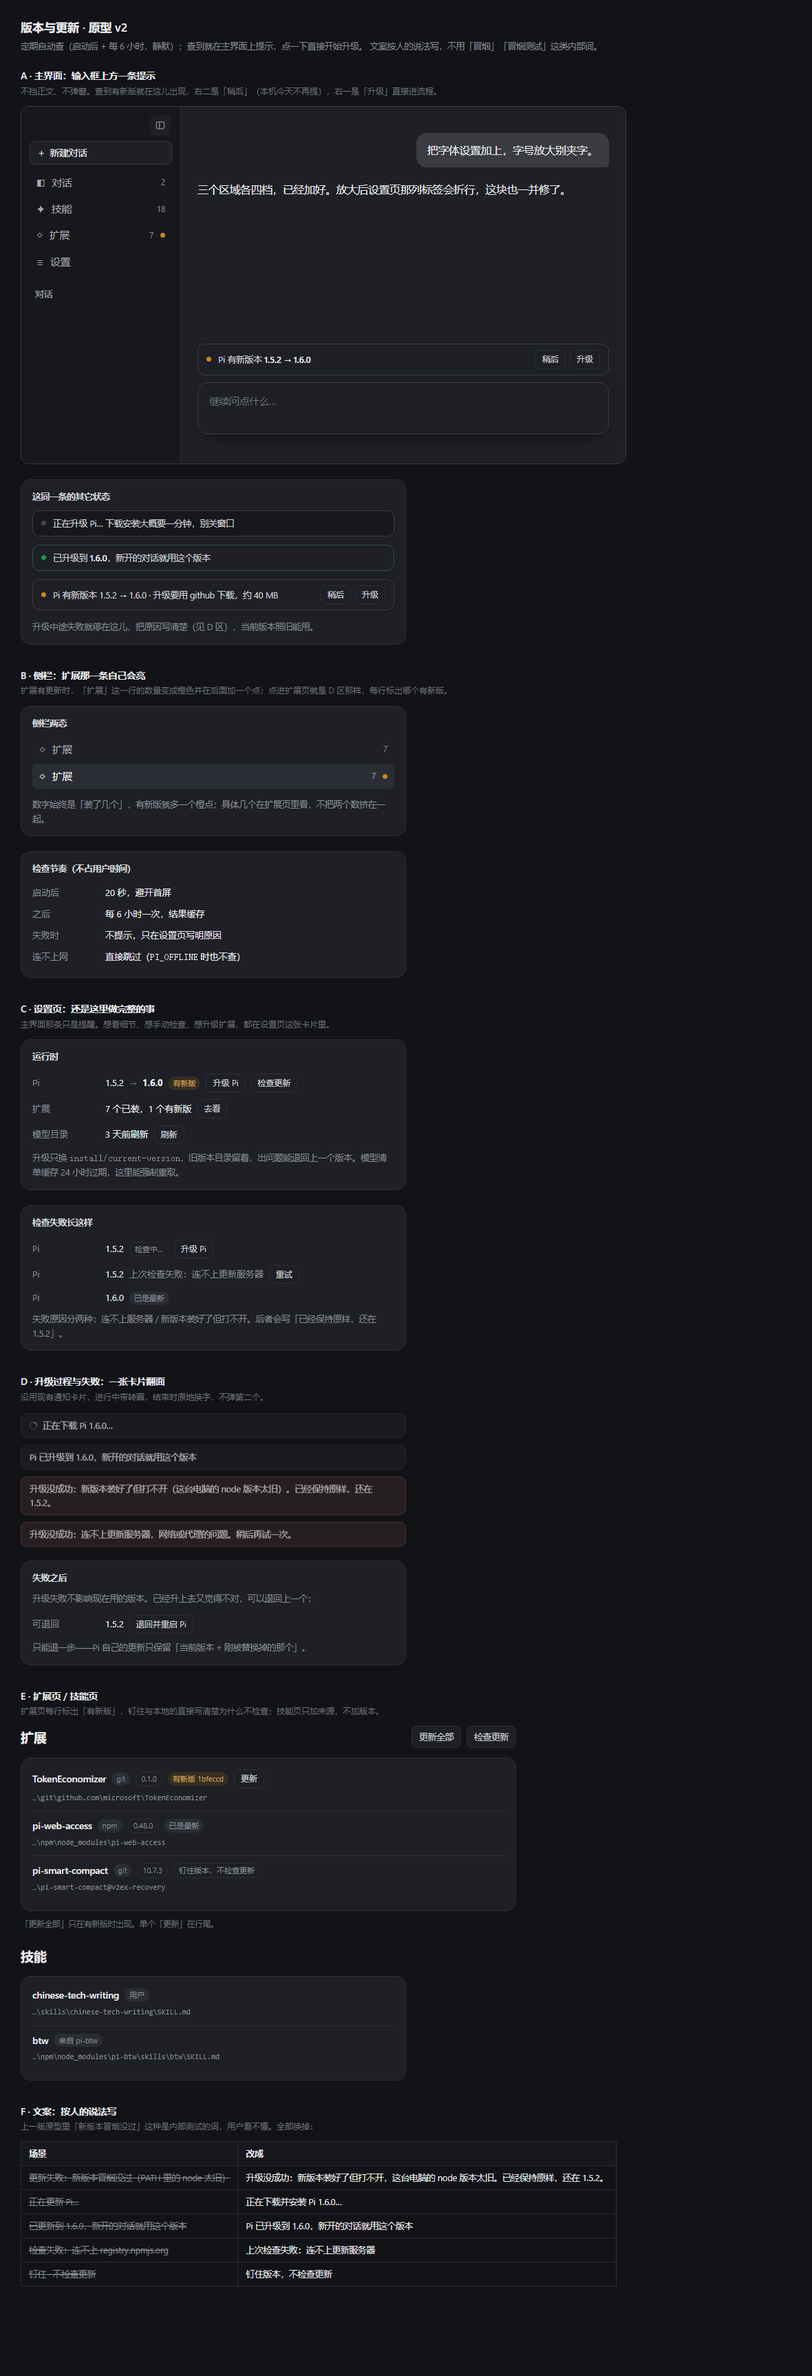
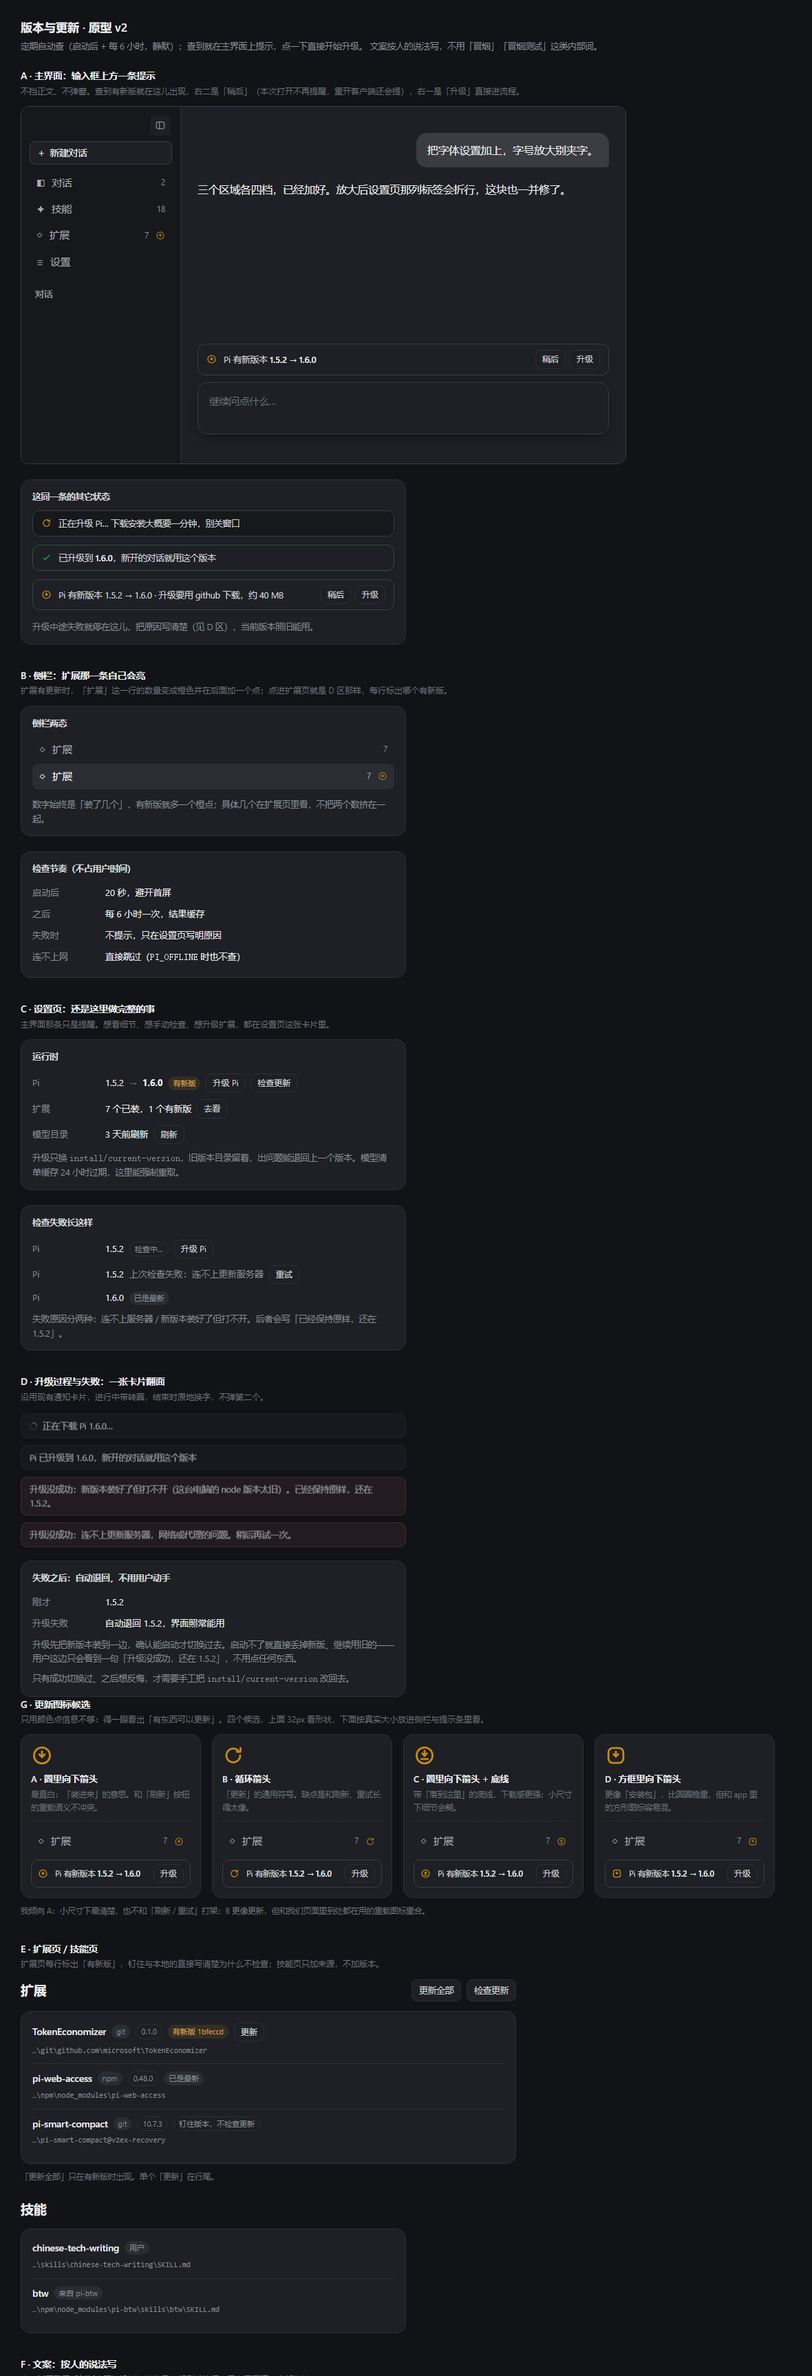
设计：更新图标候选（选圈里向下箭头）+ 失败自动退回 + 稍后只记本次打开

diff --git a/design/updates-proto.html b/design/updates-proto.html
@@ -31,7 +31,8 @@
     border-radius: 10px; box-shadow: 0 2px 8px rgba(16, 16, 20, .04);
     font-size: calc(12.5px * var(--fs-ui)); color: var(--text-dim);
   }
-  .upd-dot { width: 7px; height: 7px; border-radius: 50%; background: #c8891a; flex: 0 0 auto; }
+  .upd-icon { width: 15px; height: 15px; flex: 0 0 auto; color: #c8891a; }
+  .upd-icon svg { display: block; width: 100%; height: 100%; }
   .upd-text { flex: 1; min-width: 0; }
   .upd-text strong { font-weight: 600; color: var(--text); }
   .upd-actions { display: flex; gap: 6px; flex: 0 0 auto; }
@@ -43,7 +44,8 @@
   @keyframes pulse { 0%, 100% { opacity: .35; } 50% { opacity: 1; } }
 
   /* ② 侧栏上的「有更新」提示：数量徽标换成强调色的点 + 行内一行小字。 */
-  .nav-item .nav-update { width: 7px; height: 7px; border-radius: 50%; background: #c8891a; flex: 0 0 auto; }
+  .nav-item .nav-update { width: 14px; height: 14px; flex: 0 0 auto; color: #c8891a; }
+  .nav-item .nav-update svg { display: block; width: 100%; height: 100%; }
   .nav-item .nav-count.is-update { color: #a9711a; }
 
   .page-head { margin-bottom: 14px; align-items: center; }
@@ -56,6 +58,15 @@
   .mini-note { margin: 10px 0 0; font-size: calc(11.5px * var(--fs-ui)); color: var(--text-faint); }
   .proto-toasts { position: static; width: auto; padding: 0; gap: 10px; }
   .proto-toasts .toast { position: static; }
+  .icon-grid { display: flex; gap: 16px; flex-wrap: wrap; }
+  .icon-card { width: 262px; padding: 14px; background: var(--card); border: 1px solid var(--border); border-radius: var(--radius-card); }
+  .icon-big { width: 32px; height: 32px; margin-bottom: 8px; }
+  .icon-big svg { width: 100%; height: 100%; }
+  .icon-name { font-size: calc(13px * var(--fs-ui)); font-weight: 600; }
+  .icon-note { margin: 3px 0 10px; font-size: calc(11.5px * var(--fs-ui)); color: var(--text-faint); min-height: 3em; }
+  .icon-demo { padding-top: 10px; border-top: 1px dashed var(--border); }
+  .icon-demo .upd-strip { font-size: calc(11.5px * var(--fs-ui)); padding: 6px 9px; }
+
   .copy-table { border-collapse: collapse; font-size: calc(12.5px * var(--fs-ui)); }
   .copy-table th, .copy-table td { border: 1px solid var(--border); padding: 7px 11px; text-align: left; vertical-align: top; }
   .copy-table th { background: var(--panel); font-weight: 600; }
@@ -70,7 +81,7 @@
 
 <div class="block">
   <h2>A · 主界面：输入框上方一条提示</h2>
-  <p class="why">不挡正文、不弹窗。查到有新版就在这儿出现，右二是「稍后」（本机今天不再提），右一是「升级」直接进流程。</p>
+  <p class="why">不挡正文、不弹窗。查到有新版就在这儿出现，右二是「稍后」（本次打开不再提醒，重开客户端还会提），右一是「升级」直接进流程。</p>
 
   <div class="stage-row">
     <div class="mini-window">
@@ -83,7 +94,7 @@
           <nav class="nav">
             <button class="nav-item"><span class="nav-icon">◧</span>对话<span class="nav-count">2</span></button>
             <button class="nav-item"><span class="nav-icon">✦</span>技能<span class="nav-count">18</span></button>
-            <button class="nav-item"><span class="nav-icon">◇</span>扩展<span class="nav-count">7</span><span class="nav-update"></span></button>
+            <button class="nav-item"><span class="nav-icon">◇</span>扩展<span class="nav-count">7</span><span class="nav-update"><svg viewBox="0 0 16 16" fill="none" stroke="currentColor" stroke-width="1.4" stroke-linecap="round" stroke-linejoin="round"><circle cx="8" cy="8" r="5.8"/><path d="M8 5.1v4.1"/><path d="M6.1 7.2 8 9.1l1.9-1.9"/></svg></span></button>
             <button class="nav-item"><span class="nav-icon">≡</span>设置</button>
           </nav>
           <div class="threads-head"><span class="threads-title">对话</span></div>
@@ -100,7 +111,7 @@
 
             <div class="composer">
               <div class="upd-strip">
-                <span class="upd-dot"></span>
+                <span class="upd-icon"><svg viewBox="0 0 16 16" fill="none" stroke="currentColor" stroke-width="1.4" stroke-linecap="round" stroke-linejoin="round"><circle cx="8" cy="8" r="5.8"/><path d="M8 5.1v4.1"/><path d="M6.1 7.2 8 9.1l1.9-1.9"/></svg></span>
                 <span class="upd-text">Pi 有新版本 <strong>1.5.2 → 1.6.0</strong></span>
                 <span class="upd-actions">
                   <button class="ghost-btn small">稍后</button>
@@ -123,17 +134,17 @@
         <h3>这同一条的其它状态</h3>
 
         <div class="upd-strip busy" style="margin-bottom:12px">
-          <span class="upd-dot"></span>
+          <span class="upd-icon"><svg viewBox="0 0 16 16" fill="none" stroke="currentColor" stroke-width="1.4" stroke-linecap="round" stroke-linejoin="round"><path d="M13 8a5 5 0 1 1-1.6-3.7"/><path d="M13.2 2.6v2.7h-2.7"/></svg></span>
           <span class="upd-text">正在升级 Pi… 下载安装大概要一分钟，别关窗口</span>
         </div>
 
         <div class="upd-strip done" style="margin-bottom:12px">
-          <span class="upd-dot"></span>
+          <span class="upd-icon" style="color:var(--green)"><svg viewBox="0 0 16 16" fill="none" stroke="currentColor" stroke-width="1.6" stroke-linecap="round" stroke-linejoin="round"><path d="M3.4 8.6 6.2 11.3 12.6 4.6"/></svg></span>
           <span class="upd-text">已升级到 <strong>1.6.0</strong>，新开的对话就用这个版本</span>
         </div>
 
         <div class="upd-strip" style="margin-bottom:12px">
-          <span class="upd-dot"></span>
+          <span class="upd-icon"><svg viewBox="0 0 16 16" fill="none" stroke="currentColor" stroke-width="1.4" stroke-linecap="round" stroke-linejoin="round"><circle cx="8" cy="8" r="5.8"/><path d="M8 5.1v4.1"/><path d="M6.1 7.2 8 9.1l1.9-1.9"/></svg></span>
           <span class="upd-text">Pi 有新版本 1.5.2 → 1.6.0 · 升级要用 github 下载，约 40 MB</span>
           <span class="upd-actions"><button class="ghost-btn small">稍后</button><button class="ghost-btn small">升级</button></span>
         </div>
@@ -153,7 +164,7 @@
         <h3>侧栏两态</h3>
         <nav class="nav" style="display:flex;flex-direction:column;gap:2px">
           <button class="nav-item"><span class="nav-icon">◇</span>扩展<span class="nav-count">7</span></button>
-          <button class="nav-item is-active"><span class="nav-icon">◇</span>扩展<span class="nav-count">7</span><span class="nav-update"></span></button>
+          <button class="nav-item is-active"><span class="nav-icon">◇</span>扩展<span class="nav-count">7</span><span class="nav-update"><svg viewBox="0 0 16 16" fill="none" stroke="currentColor" stroke-width="1.4" stroke-linecap="round" stroke-linejoin="round"><circle cx="8" cy="8" r="5.8"/><path d="M8 5.1v4.1"/><path d="M6.1 7.2 8 9.1l1.9-1.9"/></svg></span></button>
         </nav>
         <p class="page-note" style="margin-top:12px">数字始终是「装了几个」，有新版就多一个橙点；具体几个在扩展页里看，不把两个数挤在一起。</p>
       </div>
@@ -236,16 +247,80 @@
 
     <div class="frame">
       <div class="page-card">
-        <h3>失败之后</h3>
-        <p class="page-note">升级失败不影响现在用的版本。已经升上去又觉得不对，可以退回上一个：</p>
+        <h3>失败之后：自动退回，不用用户动手</h3>
         <div class="kv-row">
-          <span class="kv-key">可退回</span>
-          <span class="kv-value"><span>1.5.2</span><button class="ghost-btn small">退回并重启 Pi</button></span>
+          <span class="kv-key">刚才</span>
+          <span class="kv-value"><span>1.5.2</span></span>
         </div>
-        <p class="page-note">只能退一步——Pi 自己的更新只保留「当前版本 + 刚被替换掉的那个」。</p>
+        <div class="kv-row">
+          <span class="kv-key">升级失败</span>
+          <span class="kv-value"><span>自动退回 1.5.2，界面照常能用</span></span>
+        </div>
+        <p class="page-note">升级先把新版本装到一边，确认能启动才切换过去。启动不了就直接丢掉新版、继续用旧的——
+        用户这边只会看到一句「升级没成功，还在 1.5.2」，不用点任何东西。</p>
+        <p class="page-note">只有成功切换过、之后想反悔，才需要手工把 <code>install/current-version</code> 改回去。</p>
       </div>
     </div>
   </div>
+
+<div class="block">
+  <h2>G · 更新图标候选</h2>
+  <p class="why">只用颜色点信息不够：得一眼看出「有东西可以更新」。四个候选，上面 32px 看形状，下面按真实大小放进侧栏与提示条里看。</p>
+  <div class="icon-grid">
+      <div class="icon-card">
+        <div class="icon-big" style="color:#c8891a"><svg viewBox="0 0 16 16" fill="none" stroke="currentColor" stroke-width="1.4" stroke-linecap="round" stroke-linejoin="round"><circle cx="8" cy="8" r="5.8"/><path d="M8 5.1v4.1"/><path d="M6.1 7.2 8 9.1l1.9-1.9"/></svg></div>
+        <div class="icon-name">A · 圈里向下箭头</div>
+        <div class="icon-note">最直白：「装进来」的意思。和「刷新」按钮的重载语义不冲突。</div>
+        <div class="icon-demo">
+          <div class="nav-item" style="width:100%;pointer-events:none"><span class="nav-icon">◇</span>扩展<span class="nav-count">7</span><span class="nav-update"><svg viewBox="0 0 16 16" fill="none" stroke="currentColor" stroke-width="1.4" stroke-linecap="round" stroke-linejoin="round"><circle cx="8" cy="8" r="5.8"/><path d="M8 5.1v4.1"/><path d="M6.1 7.2 8 9.1l1.9-1.9"/></svg></span></div>
+          <div class="upd-strip" style="margin:8px 0 0">
+            <span class="upd-icon"><svg viewBox="0 0 16 16" fill="none" stroke="currentColor" stroke-width="1.4" stroke-linecap="round" stroke-linejoin="round"><circle cx="8" cy="8" r="5.8"/><path d="M8 5.1v4.1"/><path d="M6.1 7.2 8 9.1l1.9-1.9"/></svg></span>
+            <span class="upd-text">Pi 有新版本 <strong>1.5.2 → 1.6.0</strong></span>
+            <span class="upd-actions"><button class="ghost-btn small">升级</button></span>
+          </div>
+        </div>
+      </div>
+      <div class="icon-card">
+        <div class="icon-big" style="color:#c8891a"><svg viewBox="0 0 16 16" fill="none" stroke="currentColor" stroke-width="1.4" stroke-linecap="round" stroke-linejoin="round"><path d="M13 8a5 5 0 1 1-1.6-3.7"/><path d="M13.2 2.6v2.7h-2.7"/></svg></div>
+        <div class="icon-name">B · 循环箭头</div>
+        <div class="icon-note">「更新」的通用符号。缺点是和刷新、重试长得太像。</div>
+        <div class="icon-demo">
+          <div class="nav-item" style="width:100%;pointer-events:none"><span class="nav-icon">◇</span>扩展<span class="nav-count">7</span><span class="nav-update"><svg viewBox="0 0 16 16" fill="none" stroke="currentColor" stroke-width="1.4" stroke-linecap="round" stroke-linejoin="round"><path d="M13 8a5 5 0 1 1-1.6-3.7"/><path d="M13.2 2.6v2.7h-2.7"/></svg></span></div>
+          <div class="upd-strip" style="margin:8px 0 0">
+            <span class="upd-icon"><svg viewBox="0 0 16 16" fill="none" stroke="currentColor" stroke-width="1.4" stroke-linecap="round" stroke-linejoin="round"><path d="M13 8a5 5 0 1 1-1.6-3.7"/><path d="M13.2 2.6v2.7h-2.7"/></svg></span>
+            <span class="upd-text">Pi 有新版本 <strong>1.5.2 → 1.6.0</strong></span>
+            <span class="upd-actions"><button class="ghost-btn small">升级</button></span>
+          </div>
+        </div>
+      </div>
+      <div class="icon-card">
+        <div class="icon-big" style="color:#c8891a"><svg viewBox="0 0 16 16" fill="none" stroke="currentColor" stroke-width="1.4" stroke-linecap="round" stroke-linejoin="round"><circle cx="8" cy="8" r="5.8"/><path d="M8 4.6v3.4"/><path d="M6.3 6.5 8 8.2l1.7-1.7"/><path d="M5.7 10.6h4.6"/></svg></div>
+        <div class="icon-name">C · 圈里向下箭头 + 底线</div>
+        <div class="icon-note">带「落到这里」的底线，下载感更强；小尺寸下细节会糊。</div>
+        <div class="icon-demo">
+          <div class="nav-item" style="width:100%;pointer-events:none"><span class="nav-icon">◇</span>扩展<span class="nav-count">7</span><span class="nav-update"><svg viewBox="0 0 16 16" fill="none" stroke="currentColor" stroke-width="1.4" stroke-linecap="round" stroke-linejoin="round"><circle cx="8" cy="8" r="5.8"/><path d="M8 4.6v3.4"/><path d="M6.3 6.5 8 8.2l1.7-1.7"/><path d="M5.7 10.6h4.6"/></svg></span></div>
+          <div class="upd-strip" style="margin:8px 0 0">
+            <span class="upd-icon"><svg viewBox="0 0 16 16" fill="none" stroke="currentColor" stroke-width="1.4" stroke-linecap="round" stroke-linejoin="round"><circle cx="8" cy="8" r="5.8"/><path d="M8 4.6v3.4"/><path d="M6.3 6.5 8 8.2l1.7-1.7"/><path d="M5.7 10.6h4.6"/></svg></span>
+            <span class="upd-text">Pi 有新版本 <strong>1.5.2 → 1.6.0</strong></span>
+            <span class="upd-actions"><button class="ghost-btn small">升级</button></span>
+          </div>
+        </div>
+      </div>
+      <div class="icon-card">
+        <div class="icon-big" style="color:#c8891a"><svg viewBox="0 0 16 16" fill="none" stroke="currentColor" stroke-width="1.4" stroke-linecap="round" stroke-linejoin="round"><rect x="2.6" y="2.6" width="10.8" height="10.8" rx="3.2"/><path d="M8 5.2v3.5"/><path d="M6.3 7 8 8.7 9.7 7"/></svg></div>
+        <div class="icon-name">D · 方框里向下箭头</div>
+        <div class="icon-note">更像「安装包」，比圆圈稳重，但和 app 里的方形图标容易混。</div>
+        <div class="icon-demo">
+          <div class="nav-item" style="width:100%;pointer-events:none"><span class="nav-icon">◇</span>扩展<span class="nav-count">7</span><span class="nav-update"><svg viewBox="0 0 16 16" fill="none" stroke="currentColor" stroke-width="1.4" stroke-linecap="round" stroke-linejoin="round"><rect x="2.6" y="2.6" width="10.8" height="10.8" rx="3.2"/><path d="M8 5.2v3.5"/><path d="M6.3 7 8 8.7 9.7 7"/></svg></span></div>
+          <div class="upd-strip" style="margin:8px 0 0">
+            <span class="upd-icon"><svg viewBox="0 0 16 16" fill="none" stroke="currentColor" stroke-width="1.4" stroke-linecap="round" stroke-linejoin="round"><rect x="2.6" y="2.6" width="10.8" height="10.8" rx="3.2"/><path d="M8 5.2v3.5"/><path d="M6.3 7 8 8.7 9.7 7"/></svg></span>
+            <span class="upd-text">Pi 有新版本 <strong>1.5.2 → 1.6.0</strong></span>
+            <span class="upd-actions"><button class="ghost-btn small">升级</button></span>
+          </div>
+        </div>
+      </div>
+  </div>
+  <p class="mini-note">我倾向 A：小尺寸下最清楚，也不和「刷新 / 重试」打架；B 更像更新，但和我们页面里到处都在用的重载图标重合。</p>
 </div>
 
 <div class="block">
@@ -345,6 +420,16 @@
   const palette = query.get('palette');
   if (theme) document.documentElement.dataset.theme = theme;
   if (palette) document.documentElement.dataset.palette = palette;
+  // ?only=icons：只看图标候选，放大 2.5 倍，方便核对小尺寸形状。
+  if (query.get('only') === 'icons') {
+    document.querySelectorAll('.block').forEach((block) => {
+      if (!block.querySelector('.icon-grid')) block.style.display = 'none';
+    });
+    document.body.style.paddingTop = '16px';
+    const grid = document.querySelector('.icon-grid');
+    if (grid) grid.style.transform = 'scale(1.6)';
+    if (grid) grid.style.transformOrigin = 'top left';
+  }
   const size = query.get('fs');
   if (size) {
     const map = { s: 0.9, m: 1, l: 1.12, xl: 1.24 };

diff --git a/docs/research/updates-2026-11.md b/docs/research/updates-2026-11.md
@@ -238,18 +238,21 @@ Pi              1.5.2 → 1.6.0（有新版）      [检查更新] [升级 Pi]
 `.composer` 里、输入框正上方一条细横条（不遮挡正文、不弹窗）：
 
 ```text
-● Pi 有新版本 1.5.2 → 1.6.0            [稍后] [升级]
+⬇ Pi 有新版本 1.5.2 → 1.6.0            [稍后] [升级]
 ```
 
-- 「升级」= 直接开始升级流程，同一条就地变成进行中：`● 正在升级 Pi… 下载安装大概要一分钟，别关窗口`；
-- 完成后变成绿色：`● 已升级到 1.6.0，新开的对话就用这个版本`，几秒后自己消失；
-- 「稍后」= 这台机器今天不再提示（记在本地存储，第二天或版本再变时重来）。
+（⬇ 是图标，见 6.6；不是文字。）
+
+- 「升级」= 直接开始升级流程，同一条就地变成进行中（图标换成转圈）：`正在升级 Pi… 下载安装大概要一分钟，别关窗口`；
+- 完成后图标换成对勾、变绿：`已升级到 1.6.0，新开的对话就用这个版本`，几秒后自己消失；
+- 「稍后」= **本次打开不再提醒**（只记在内存里），关掉客户端再打开会重新提。
 
 设置页与扩展页不显示这条（输入框那时是隐藏的），由侧栏的点与卡片上的徽标承担提醒。
 
 ### 6.3 侧栏与扩展页
 
-- 侧栏「扩展」这一行：数字始终是「装了几个」，**有新版时在后面多一个橙点**，不把两个数挤在一起；
+- 侧栏「扩展」这一行：数字始终是「装了几个」，**有新版时在后面加一个橙色更新图标**（不是光一个圆点——
+  圆点只说「有变化」，说不出是什么变化），不把两个数挤在一起；
 - 扩展页页头在有新版时出现「更新全部」，逐行的徽标写「有新版 1bfeccd」并给一个「更新」按钮；
 - 钉住版本与本地包直接写「钉住版本，不检查更新」「本地，不检查更新」，用户不会以为漏了。
 
@@ -277,14 +280,28 @@ Pi          1.5.2 → 1.6.0  [有新版]  [升级 Pi] [检查更新]
 | 检查失败 | 上次检查失败：连不上更新服务器 |
 | 钉住的包 | 钉住版本，不检查更新 |
 
-失败后可给一个「退回并重启 Pi」的动作（只能退一步）。要不要做，等用户定。
+**失败的处理：自动退回，不给按钮。** 升级流程是「装到一边 → 确认能启动 → 才切换」，起不来就直接丢掉新版、
+`current-version` 保持原值，用户只看到一句「升级没成功，还在 1.5.2」。只有成功切换过、之后想反悔，
+才需要手工把 `install/current-version` 改回去（Pi 自己只留当前版本与刚被替换的那个）。
 
 ### 6.6 技能页
 
 只加来源标签（`用户` / `项目` / `来自 pi-btw`），不加版本 —— 技能没有版本概念。
 
+### 6.6 更新图标
+
+只用颜色点不够：圆点只说「有变化」，看不出是「可以更新」。四个候选（`?only=icons` 可放大看）：
+
+| 候选 | 形状 | 评价 |
+| --- | --- | --- |
+| **A** | 圈里向下箭头 | 最直白，「装进来」的意思；小尺寸清楚，不和「刷新 / 重试」打架 —— **采用这个** |
+| B | 循环箭头 | 「更新」的通用符号，但和我们页面里到处在用的重载图标重合 |
+| C | 圈里向下箭头 + 底线 | 下载感更强，小尺寸下细节会糊 |
+| D | 方框里向下箭头 | 更像「安装包」，但和 app 里的方形图标容易混 |
+
+同一枚图标用在三处：主界面提示条左侧（15px，橙色）、侧栏「扩展」行末（14px）、设置页运行时卡片的状态位。
+
 ### 6.7 仍然待定
 
-1. 「退回并重启 Pi」这个按钮做不做（不做就只提示手工改 `current-version`）；
-2. 检查更新的间隔 6 小时是否合适（太勤会打扰，太懒会滞后）；
-3. 主界面提示条出现时，要不要在窗口任务栏/标题上再提一句（目前只做条内提示）。
+1. 检查更新的间隔 6 小时是否合适（太勤会打扰，太懒会滞后）；
+2. 图标是否就定 A（换 B/C/D 只是换个 SVG，版位不用动）。

diff --git a/docs/STATUS.md b/docs/STATUS.md
@@ -22,6 +22,23 @@
 - 已知限制（写进发布说明）：Seven Station Core 目前只放 Windows 包，之后会出 Linux 版；局域网限本地子网、没做 TLS；
   手机窄屏未调；数据库没有版本化迁移，只有「查列再补」这一处临时逻辑。
 
+## STATUS-077：更新图标 + 失败自动退回 + 「稍后」语义（原型 v3，2026-11-22）
+
+用户定下来的三条，原型与文档同步改了：
+
+1. **检查间隔 6 小时照准**；
+2. **不做「退回并重启 Pi」按钮**：升级流程是「装到一边 → 确认能启动 → 才切换」，起不来就丢掉新版、
+   保持旧版本，用户只看到「升级没成功，还在 1.5.2」；
+3. **「稍后」= 本次打开不再提醒**（只记内存，重开客户端会再提）；
+4. 另外要求：光靠颜色点不够，得有个**看得出是「更新」的图标**。
+
+图标出了四个候选（`design/shots/updates-proto-v2-icons.png`，原型里 `?only=icons` 可放大看）：
+**选 A「圈里向下箭头」**——小尺寸清楚，也不和刷新/重试的循环箭头混。同一枚用在主界面提示条（15px）、
+侧栏「扩展」行末（14px）、设置页状态位。
+
+截图：`design/shots/updates-proto-v2-{light,dark,icons}.png`；设计说明在
+`docs/research/updates-2026-11.md` 第六节（6.2 / 6.3 / 6.5 / 6.6）。
+
 ## STATUS-076：更新提示改为主界面可见 + 定期检查（原型 v2，2026-11-22）
 
 用户要求两点：一是 UI 文案别说「冒烟」这类内部词；二是检查更新不能纯手动，查到就要在主界面提示，
